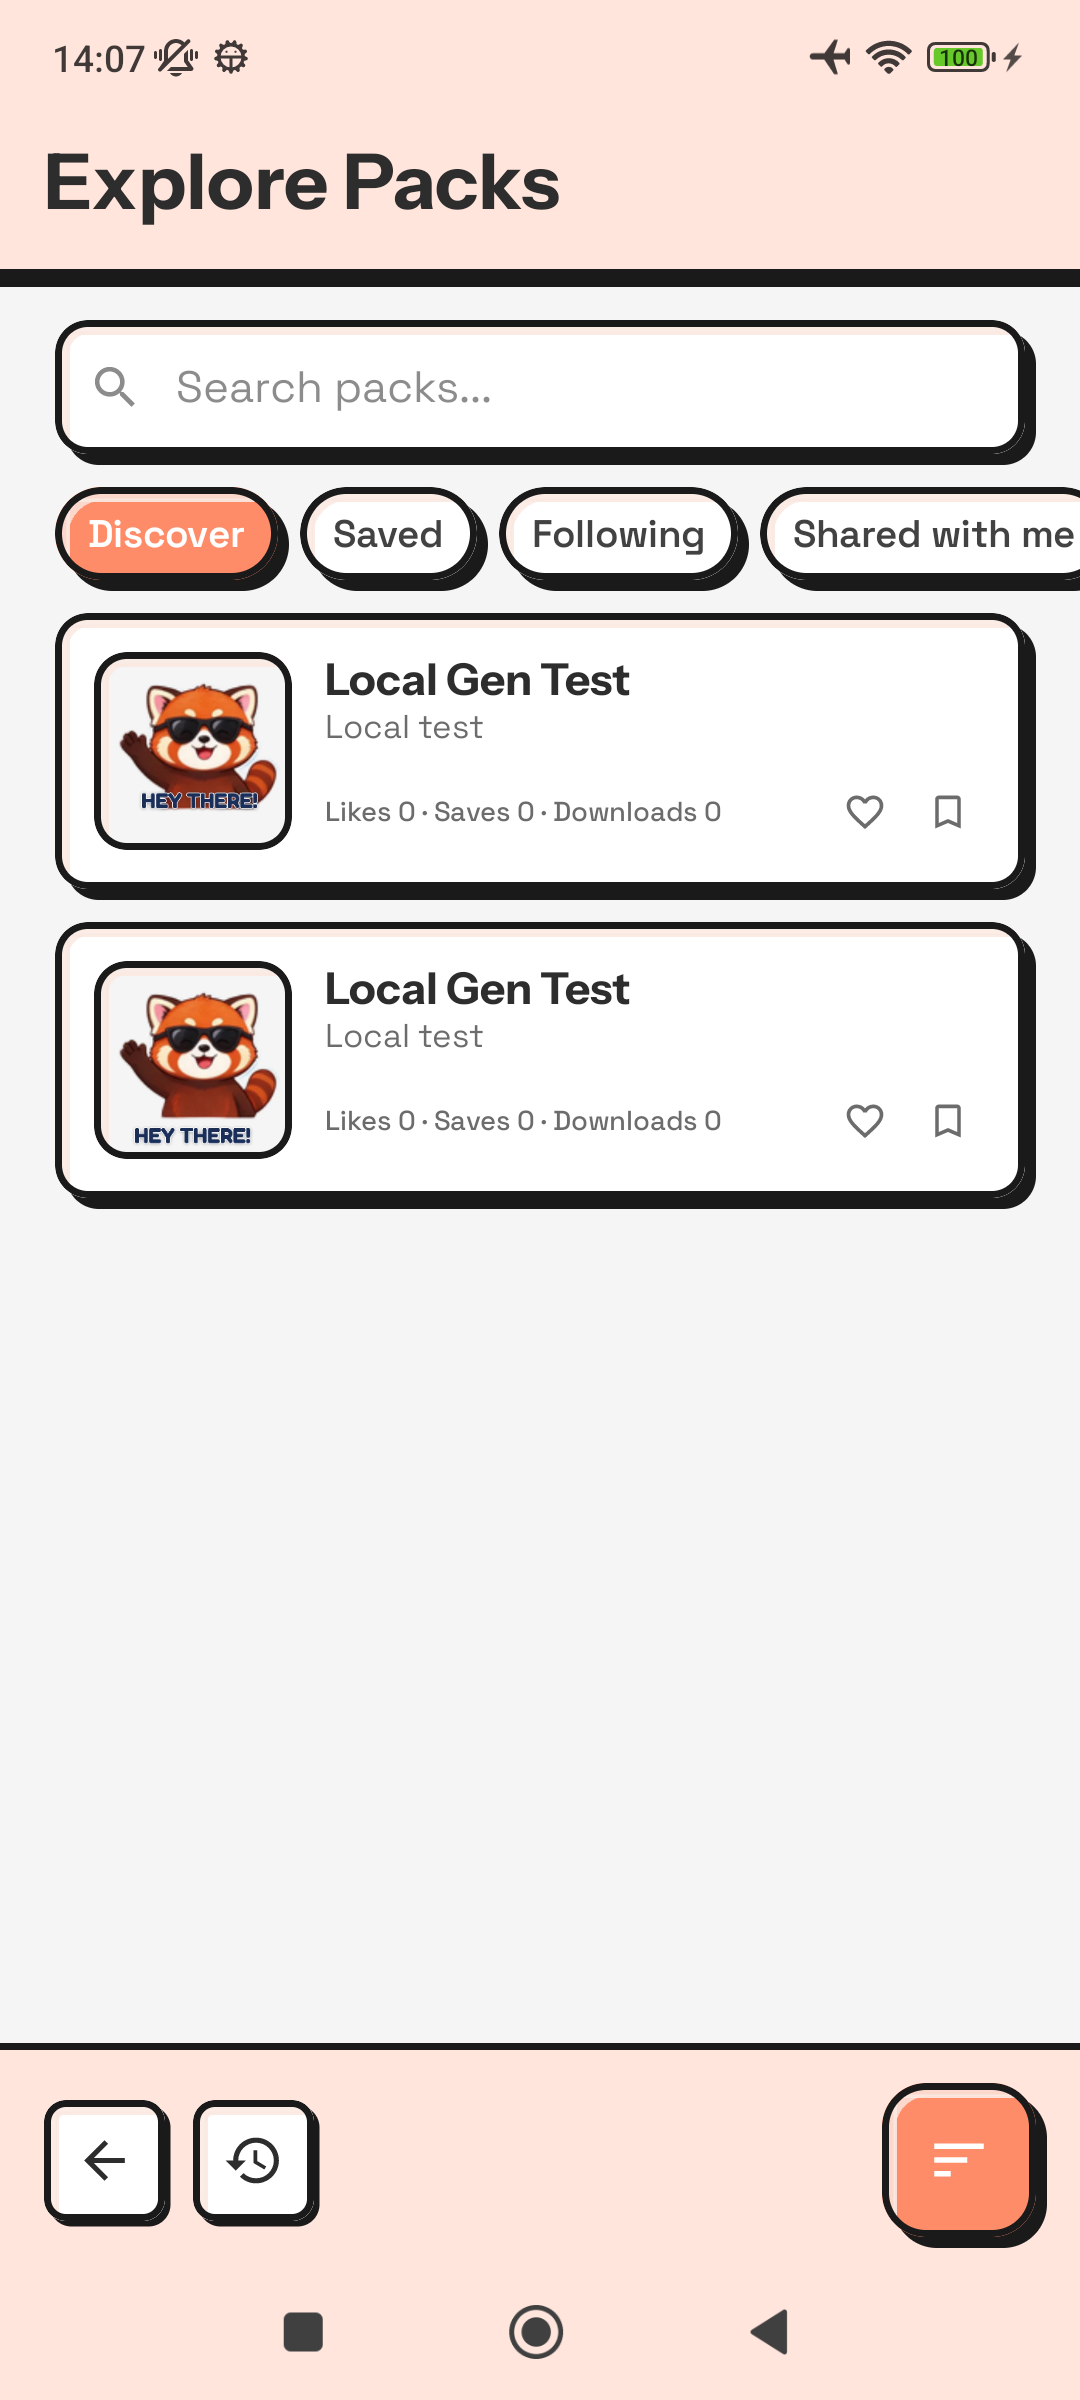
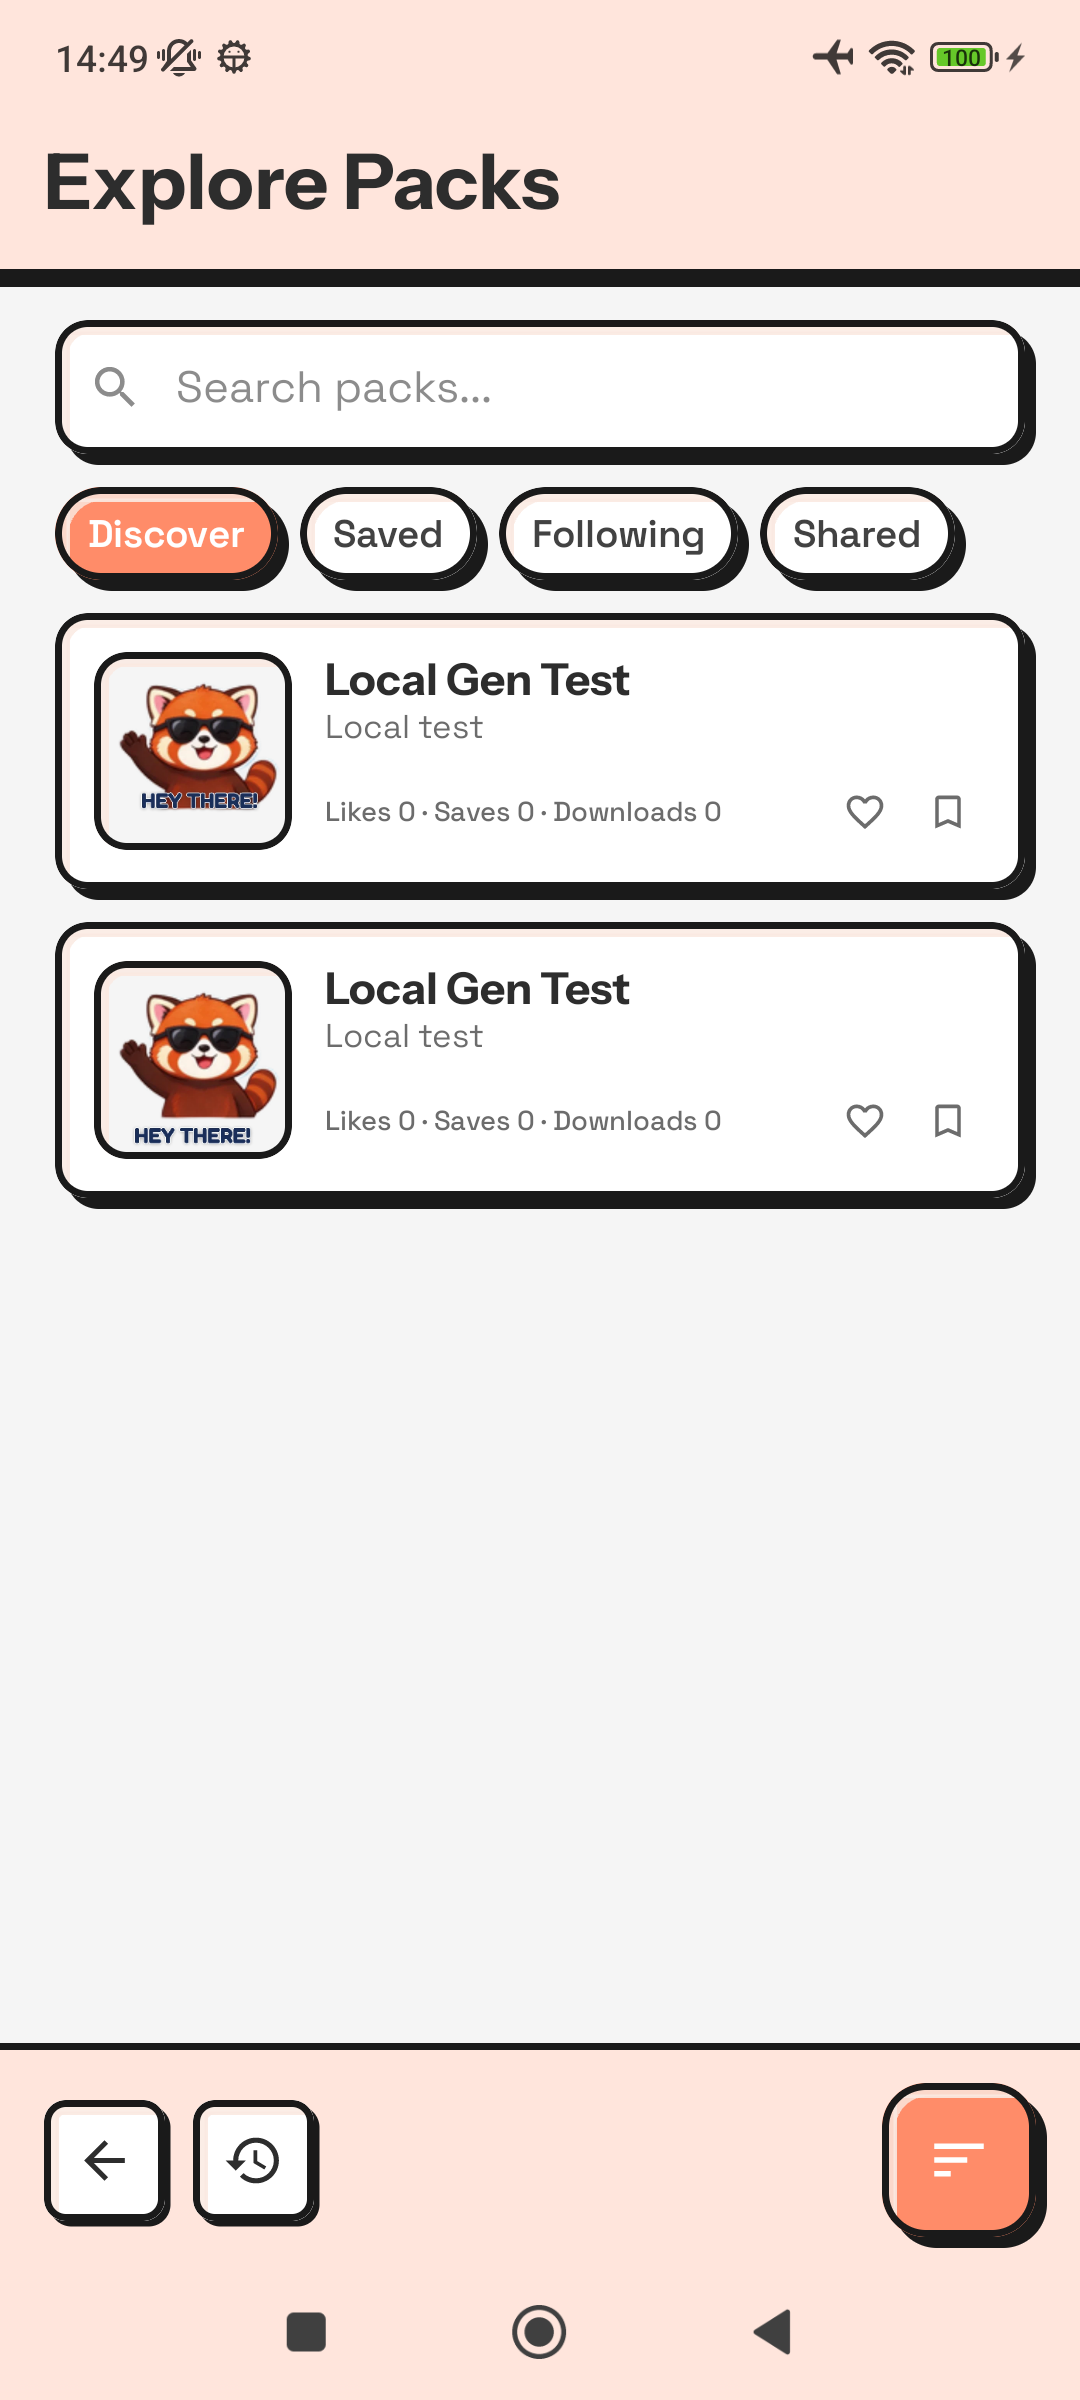
fix(ui): stop the last Explore tab from being cut off at the screen edge
The feed tabs are a horizontally scrollable row that breaks out of the
content padding. Four tabs were wider than the viewport, so "Shared with
me" ran past the edge of the screen with its text cut in half, and
nothing said that the row could be scrolled.

- The trailing edge now fades into the page while there is more to see,
  so a chip that runs past the edge reads as scrollable.
- The tab label is "Shared" instead of "Shared with me", which is all
  four tabs fit on a phone without scrolling.

diff --git a/composeApp/src/commonMain/kotlin/presentation/components/ScreenContentHorizontalScrollRow.kt b/composeApp/src/commonMain/kotlin/presentation/components/ScreenContentHorizontalScrollRow.kt
@@ -1,22 +1,32 @@
 package presentation.components
 
+import androidx.compose.foundation.background
 import androidx.compose.foundation.horizontalScroll
+import androidx.compose.foundation.layout.Box
 import androidx.compose.foundation.layout.Row
 import androidx.compose.foundation.layout.RowScope
 import androidx.compose.foundation.layout.Spacer
+import androidx.compose.foundation.layout.fillMaxHeight
 import androidx.compose.foundation.layout.fillMaxWidth
 import androidx.compose.foundation.layout.width
 import androidx.compose.foundation.rememberScrollState
 import androidx.compose.runtime.Composable
+import androidx.compose.ui.Alignment
 import androidx.compose.ui.Modifier
+import androidx.compose.ui.graphics.Brush
+import androidx.compose.ui.graphics.Color
 import androidx.compose.ui.unit.Dp
 import androidx.compose.ui.unit.dp
 import presentation.theme.ScreenContentHorizontalPadding
 import presentation.theme.breakOutOfParentHorizontalPadding
+import presentation.theme.neubrutalScreenBackground
 
 /**
  * Edge-to-edge horizontally scrollable row inside a parent with [presentation.theme.screenContentHorizontalPadding].
  * The first item aligns with sibling content; chips can scroll past the screen edge.
+ *
+ * While there is more to scroll, the trailing edge fades into the page. Without it a chip that
+ * runs past the screen edge looked broken rather than scrollable.
  */
 @Composable
 fun ScreenContentHorizontalScrollRow(
@@ -25,14 +35,32 @@ fun ScreenContentHorizontalScrollRow(
     contentSpacing: Dp = 8.dp,
     content: @Composable RowScope.(contentSpacing: Dp) -> Unit
 ) {
-    Row(
-        modifier = modifier
-            .fillMaxWidth()
-            .breakOutOfParentHorizontalPadding(horizontalPadding)
-            .horizontalScroll(rememberScrollState())
-    ) {
-        Spacer(modifier = Modifier.width(horizontalPadding))
-        content(contentSpacing)
-        Spacer(modifier = Modifier.width(horizontalPadding))
+    val scrollState = rememberScrollState()
+
+    Box(modifier = modifier.fillMaxWidth()) {
+        Row(
+            modifier = Modifier
+                .fillMaxWidth()
+                .breakOutOfParentHorizontalPadding(horizontalPadding)
+                .horizontalScroll(scrollState)
+        ) {
+            Spacer(modifier = Modifier.width(horizontalPadding))
+            content(contentSpacing)
+            Spacer(modifier = Modifier.width(horizontalPadding))
+        }
+
+        if (scrollState.canScrollForward) {
+            Box(
+                modifier = Modifier
+                    .align(Alignment.CenterEnd)
+                    .width(28.dp)
+                    .fillMaxHeight()
+                    .background(
+                        Brush.horizontalGradient(
+                            colors = listOf(Color.Transparent, neubrutalScreenBackground())
+                        )
+                    )
+            )
+        }
     }
 }
